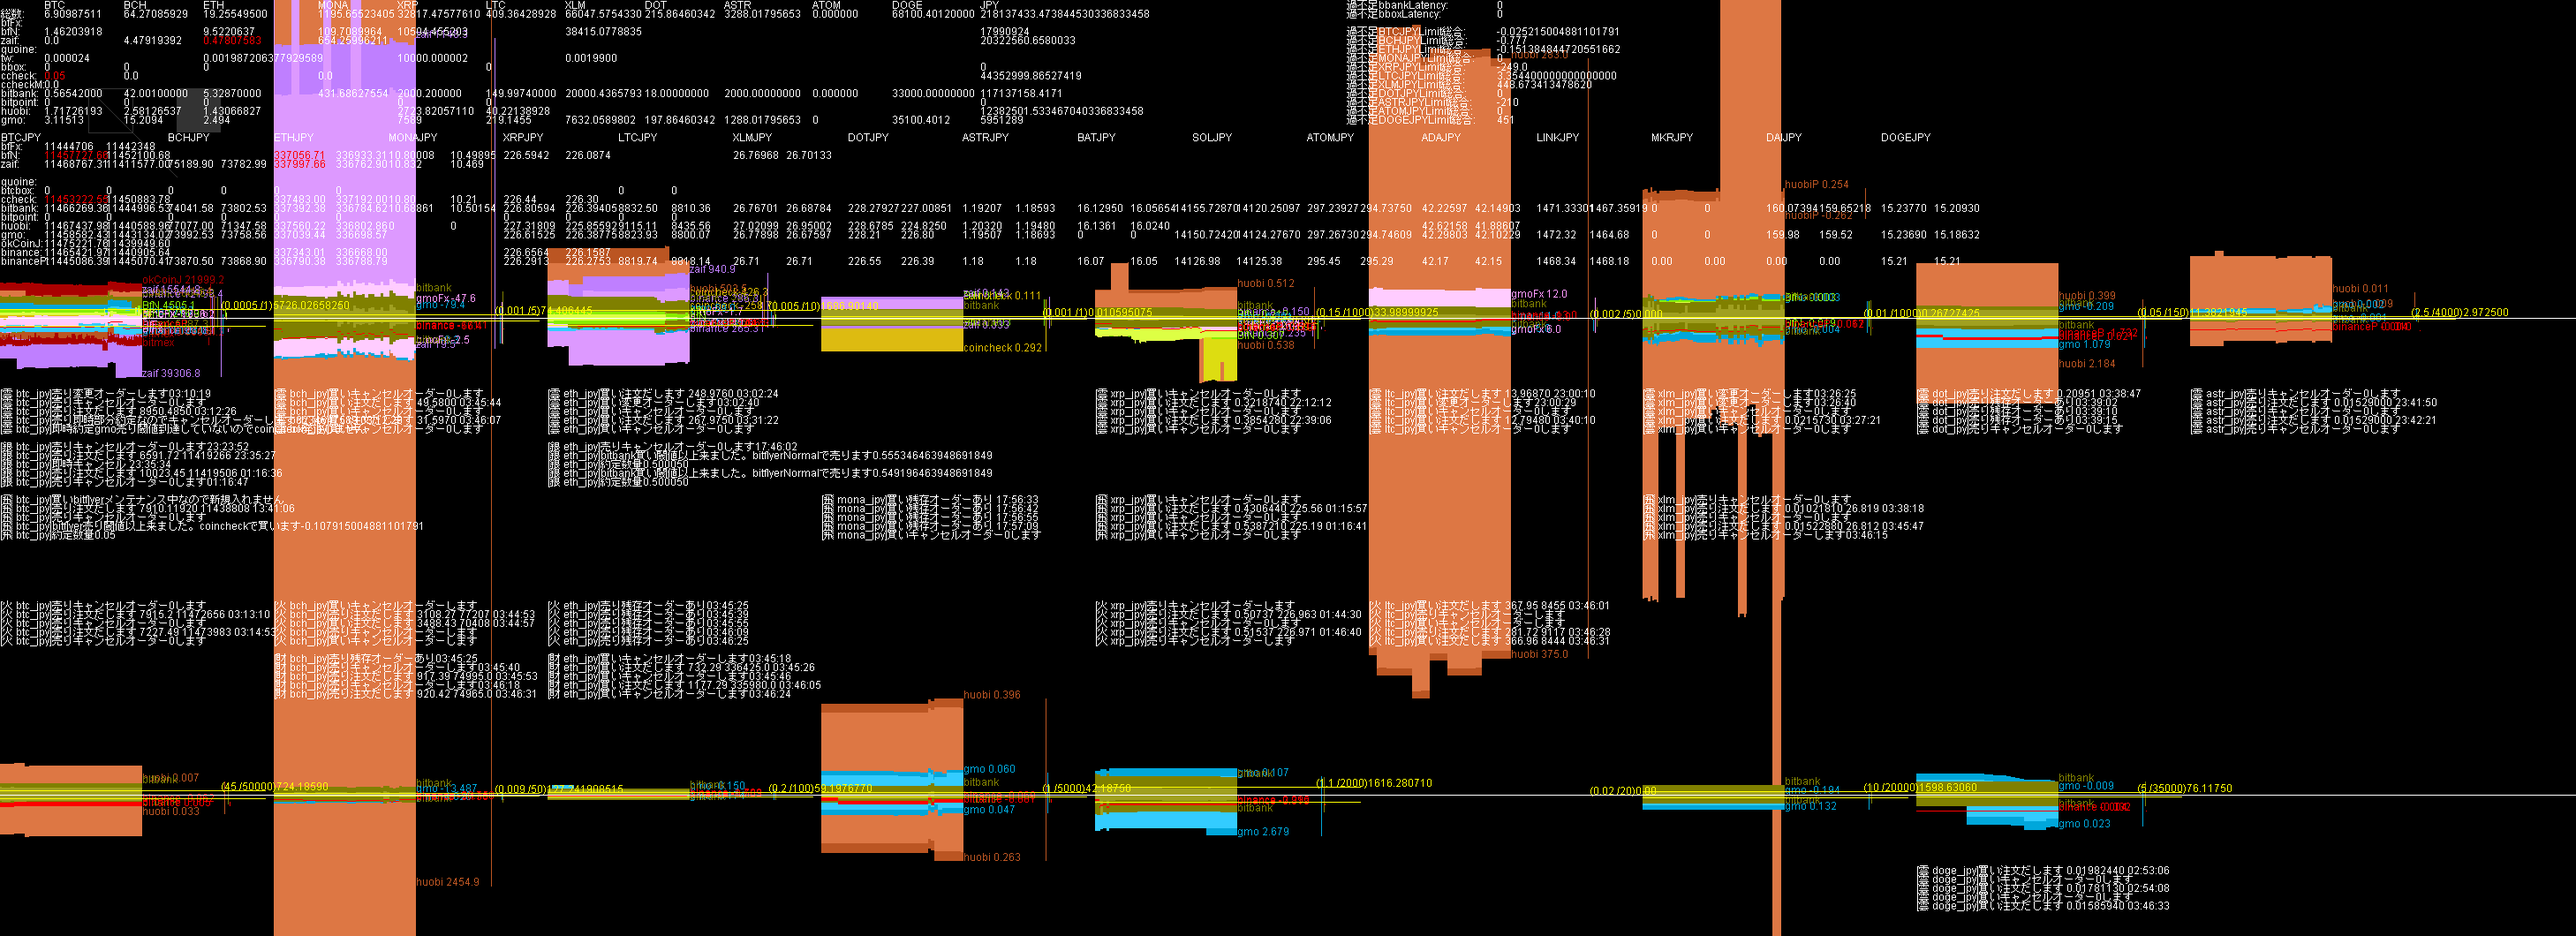
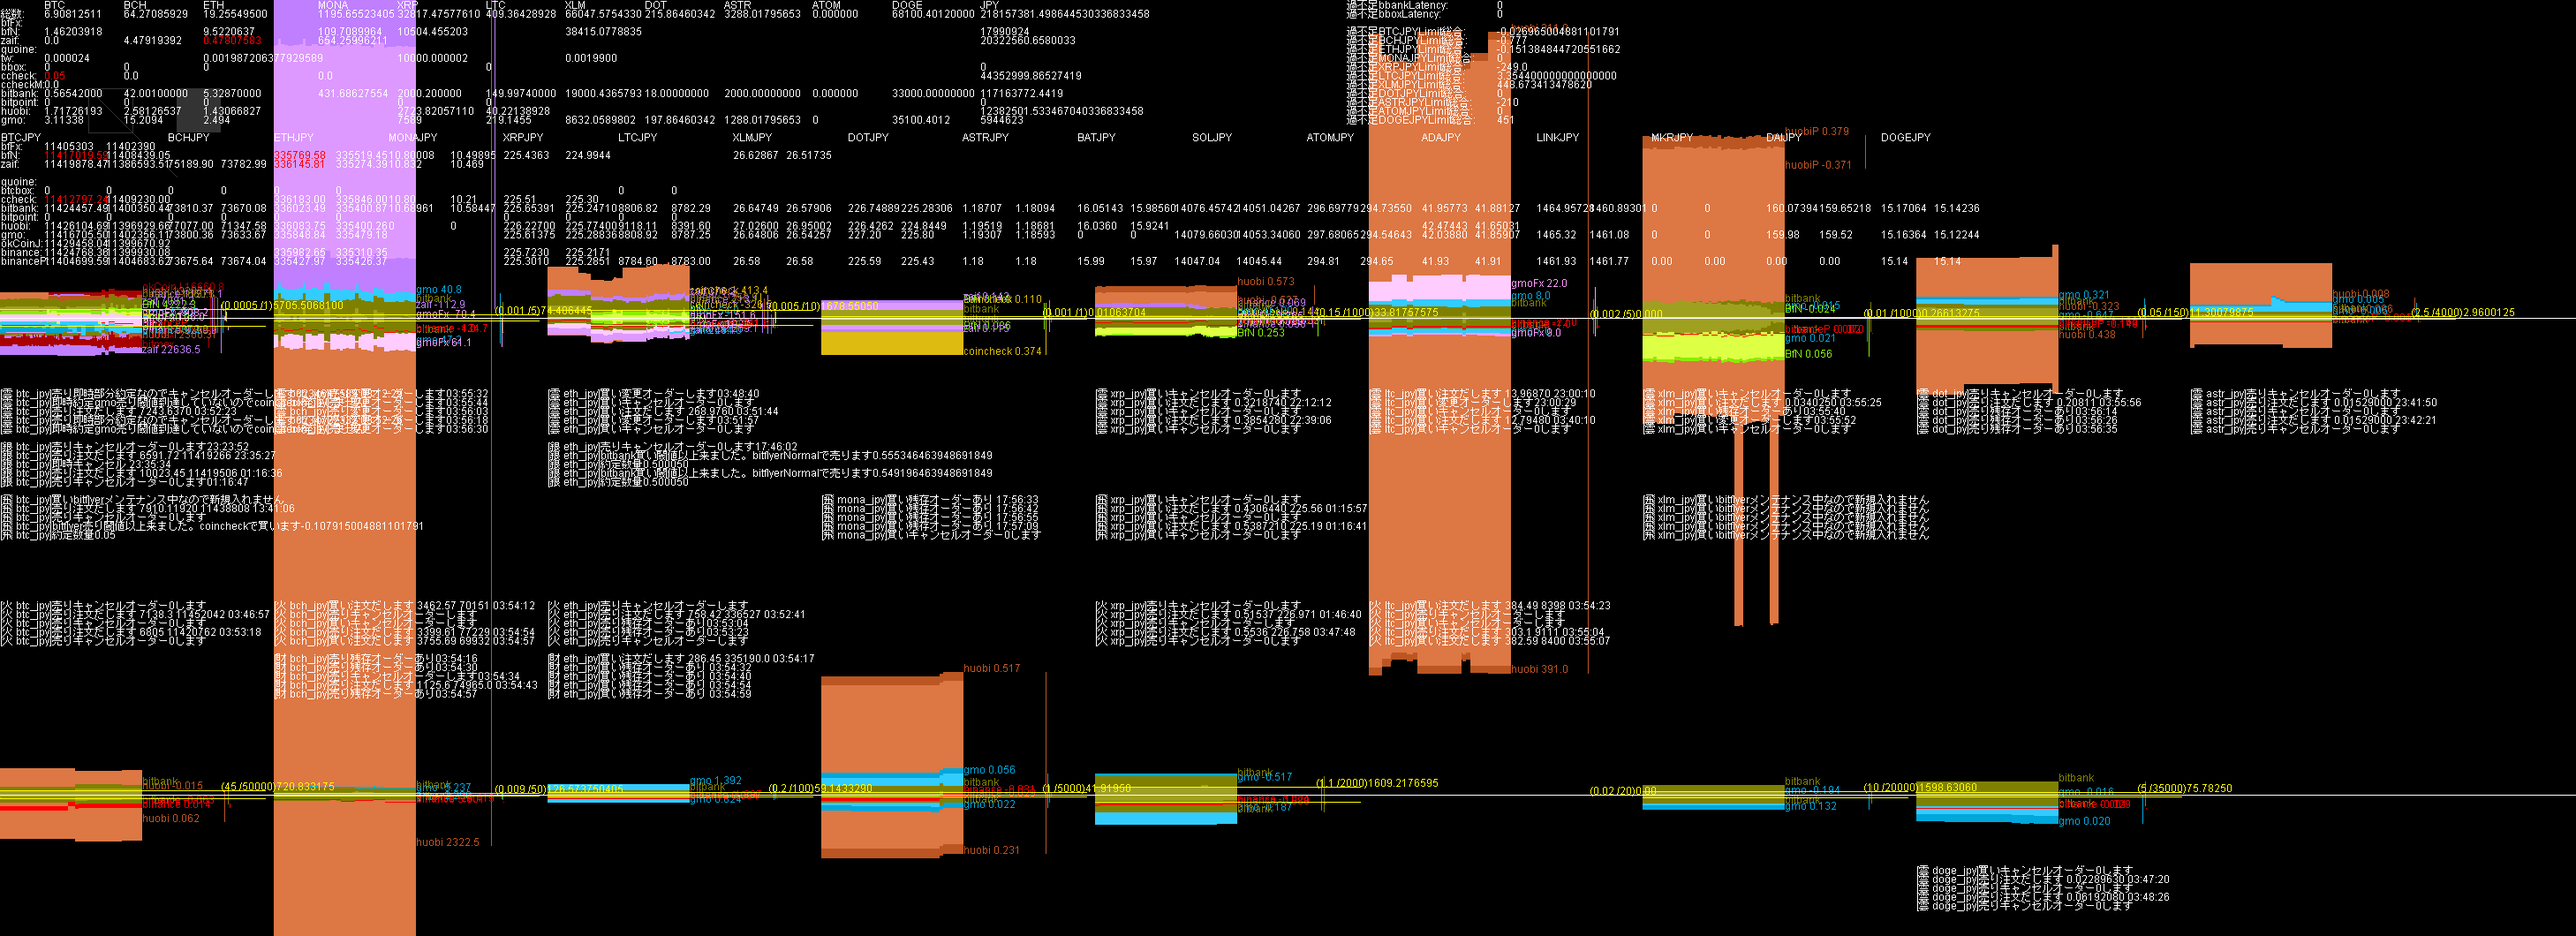
Update HTML file via Java

diff --git a/ca.html b/ca.html
@@ -16,6 +16,9 @@ th { background-color: #222; text-align: center; }
     <tr><th>ddhhmm</th><th>bfJPY</th><th>財JPY</th><th>ccJPY</th><th>銀JPY</th><th>火JPY</th><th>雲JPY</th><th>bfBTC</th><th>財BTC</th><th>ccBTC</th><th>銀BTC</th><th>火BTC</th><th>雲BTC</th><th>bfBCH</th><th>財BCH</th><th>ccBCH</th><th>銀BCH</th><th>火BCH</th><th>雲BCH</th><th>bfETH</th><th>財ETH</th><th>ccETH</th><th>銀ETH</th><th>火ETH</th><th>雲ETH</th><th>bfMONA</th><th>財MONA</th><th>ccMONA</th><th>銀MONA</th><th>火MONA</th><th>雲MONA</th><th>bfXRP</th><th>財XRP</th><th>ccXRP</th><th>銀XRP</th><th>火XRP</th><th>雲XRP</th><th>bfLTC</th><th>財LTC</th><th>ccLTC</th><th>銀LTC</th><th>火LTC</th><th>雲LTC</th><th>bfXLM</th><th>財XLM</th><th>ccXLM</th><th>銀XLM</th><th>火XLM</th><th>雲XLM</th><th>bfDOT</th><th>財DOT</th><th>ccDOT</th><th>銀DOT</th><th>火DOT</th><th>雲DOT</th><th>bfASTR</th><th>財ASTR</th><th>ccASTR</th><th>銀ASTR</th><th>火ASTR</th><th>雲ASTR</th><th>bfDOGE</th><th>財DOGE</th><th>ccDOGE</th><th>銀DOGE</th><th>火DOGE</th><th>雲DOGE</th>    </tr>  </thead>
   <tbody>
     <tr>
+<td>160356</td><td>01799</td><td>02032</td><td>04435</td><td>11716</td><td>01238</td><td>00594</td><td>01.46</td><td>00.00</td><td>00.05</td><td>00.57</td><td>01.72</td><td>03.11</td><td>00.00</td><td>04.48</td><td>00.00</td><td>42.00</td><td>02.58</td><td>15.21</td><td>09.52</td><td><span style="color: #ff69b4">00.48</span></td><td>00.00</td><td>05.33</td><td>01.43</td><td>02.49</td><td>0109.7</td><td>0654.3</td><td>0000.0</td><td>0431.7</td><td>0000.0</td><td>0000.0</td><td>10504</td><td>00000</td><td>00000</td><td>02000</td><td>02724</td><td>07589</td><td>00.00</td><td>00.00</td><td>00.00</td><td>150.00</td><td>40.22</td><td>219.15</td><td>00.00</td><td>00.00</td><td>00.00</td><td>19000.44</td><td>00.00</td><td>8632.06</td><td>00.00</td><td>00.00</td><td>00.00</td><td>18.00</td><td>00.00</td><td>197.86</td><td>00.00</td><td>00.00</td><td>00.00</td><td>2000.00</td><td>00.00</td><td>1288.02</td><td>00.00</td><td>00.00</td><td>00.00</td><td>33000.00</td><td>00.00</td><td>35100.40</td>
+    </tr>
+    <tr>
 <td>160346</td><td>01799</td><td>02032</td><td>04435</td><td>11713</td><td>01238</td><td>00595</td><td>01.46</td><td>00.00</td><td>00.05</td><td>00.57</td><td>01.72</td><td>03.12</td><td>00.00</td><td>04.48</td><td>00.00</td><td>42.00</td><td>02.58</td><td>15.21</td><td>09.52</td><td><span style="color: #ff69b4">00.48</span></td><td>00.00</td><td>05.33</td><td>01.43</td><td>02.49</td><td>0109.7</td><td>0654.3</td><td>0000.0</td><td>0431.7</td><td>0000.0</td><td>0000.0</td><td>10504</td><td>00000</td><td>00000</td><td>02000</td><td>02724</td><td>07589</td><td>00.00</td><td>00.00</td><td>00.00</td><td>150.00</td><td>40.22</td><td>219.15</td><td>00.00</td><td>00.00</td><td>00.00</td><td>20000.44</td><td>00.00</td><td>7632.06</td><td>00.00</td><td>00.00</td><td>00.00</td><td>18.00</td><td>00.00</td><td>197.86</td><td>00.00</td><td>00.00</td><td>00.00</td><td>2000.00</td><td>00.00</td><td>1288.02</td><td>00.00</td><td>00.00</td><td>00.00</td><td>33000.00</td><td>00.00</td><td>35100.40</td>
     </tr>
     <tr>
